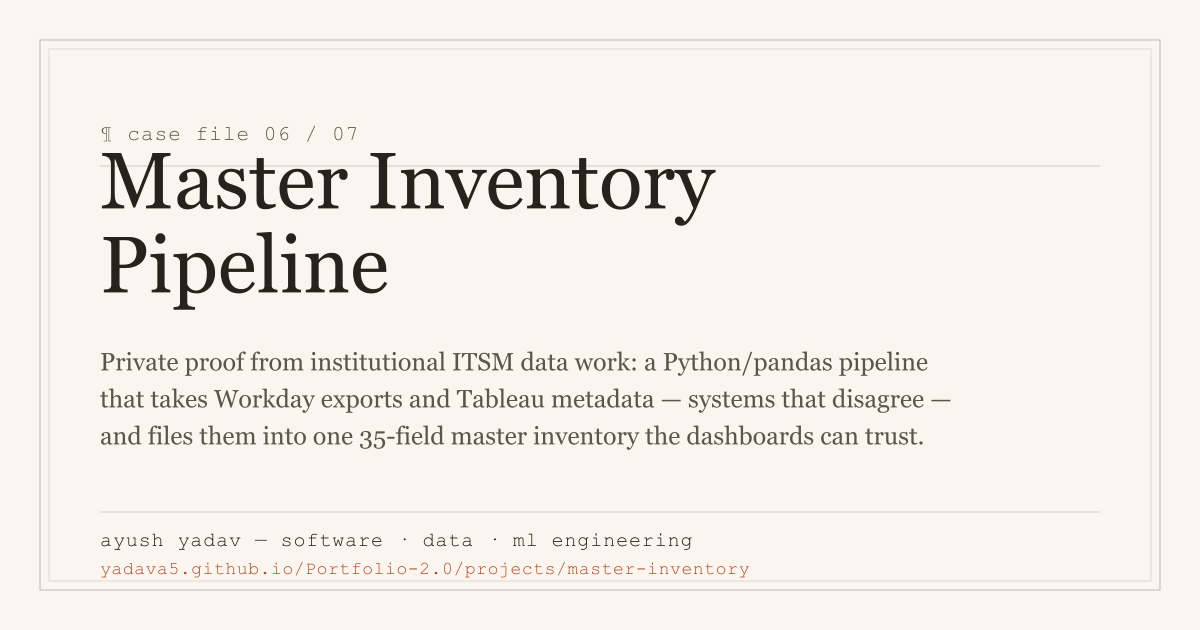
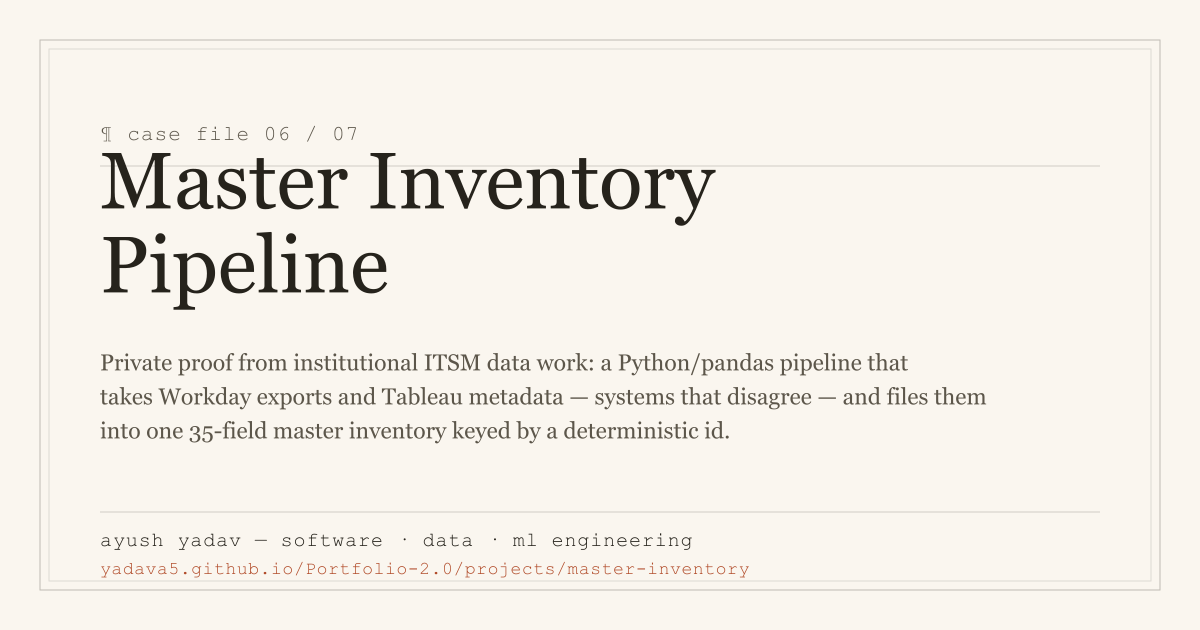
edit(data): eight more lines, and a bullet that said its neighbour's sentence
The rest of the case-route audit. Each one verified in the source before it was
touched, not taken from the report that flagged it.

POLICYBOT carried three lines written for a product page rather than an
engineering file. "Meet users where they already work: Slack" is a marketing
formula standing in for a constraint — now "Answer in Slack, where the questions
already get asked." Its one outcome row claimed an intention ("designed to cut
policy lookup friction while preserving citations and fallback behavior") while
the ledger two sections down held the concrete version; it now states what
actually happens, including the 4 declined topics, taken from
policybot-validation-ledger.json rather than from prose. And a tradeoff sold
"lowers adoption friction" — jargon for an unmeasured effect, on a file that
disowns adoption claims elsewhere, and the route's third use of "friction".

MASTER INVENTORY leaned on "trust" four times and never made it checkable. The
summary now names the mechanism instead — a deterministic id — which is what
the ledger's own schema row records. "1M+" was the only rounded figure on a
route that otherwise prints 3,731 / 6,743 / 10,453; spelled out.

TASKFLOW's "what I'm not claiming" list said the same thing three times: bullets
3, 4 and 5 each explained that RLS is written but not switched on. Bullet 5 held
one fact the others did not — that the 11 tests run in CI against an ephemeral
[…]

Changed region(s): [[0.0617, 0.5429, 0.8325, 0.7238]]

diff --git a/src/lib/data/projectCaseStudies.ts b/src/lib/data/projectCaseStudies.ts
@@ -1361,7 +1361,7 @@ export const projectCaseStudies: ProjectCaseStudy[] = [
       {
         date: "2026-05",
         kind: "erratum",
-        text: "An earlier draft carried the smaller count from the repo’s CI run title. The audited count in the current tree is 71 test functions; the receipt above links the tree so the number can be checked.",
+        text: "An earlier draft took its count from the repo’s CI run title rather than from the test tree; that draft is not in this repository’s history, so the figure it printed cannot be quoted back here. The audited count in the current tree is 71 test functions, and the receipt above links the tree so the number can be checked.",
       },
     ],
     artifacts: [
@@ -1723,9 +1723,8 @@ export const projectCaseStudies: ProjectCaseStudy[] = [
     notClaiming: [
       "Re-run 2026-07-31 against HEAD 932625e it is 1,168 passed and 11 skipped (635 frontend + 533 backend) — the tree grew from 87 to 105 test files over 249 commits, and nothing was retracted. 1,145 is my local vitest count from 2026-07 against the pinned commit — not a CI badge, and that commit’s own CI run failed. Main has been green since 2026-07-23, so the caveat is that this number predates the green rather than that the repo is broken.",
       "No production users or uptime are claimed; the deployment is a demo with a mock-login flow.",
-      "The DB-enforced RLS is not turned on in production. Receipt 05 is the standing: the policies are written, the app sets the GUC on every query, and 11 tests prove the pair binds against a real Postgres — but 0002 is hand-run, and the cutover is a final staged step nobody has taken. Isolation is the application’s discipline today.",
+      "The DB-enforced RLS is not turned on in production. Receipt 05 is the standing: the policies are written, the app sets the GUC on every query, and 11 tests prove the pair binds against an ephemeral Postgres in CI — the suite builds its own NOSUPERUSER NOBYPASSRLS role and applies the real migration, so that evidence is machine-checked rather than hand-run. But 0002 is hand-run, and the cutover is a final staged step nobody has taken. Isolation is the application’s discipline today.",
       "The repo ships the SQL that creates a NOSUPERUSER NOBYPASSRLS role for the app to connect as. It cannot show you which role the production DATABASE_URL actually uses — that is database state, not repository state, and no file here can settle it.",
-      "What the 11 isolation tests prove is that the policies work, not that they are switched on in production. They run in CI against an ephemeral Postgres — the suite builds its own NOSUPERUSER NOBYPASSRLS role and applies the real migration — so the evidence is machine-checked, not hand-run. What no test here can show is which role the deployed database actually connects as; that is database state, and receipt 05 is where the staged-off standing is written down.",
       "The hang in receipt 09 was timed once, by hand, against the deployed app, and that number lives in the fix commit’s message and nowhere else — no log, no test, and no timeout setting reproduces it. So this file describes the failure and not its seconds.",
     ],
     corrections: [
@@ -1800,7 +1799,7 @@ export const projectCaseStudies: ProjectCaseStudy[] = [
     repoPin: null,
     privateRepoName: "institutional — Miami University IT",
     summary:
-      "Private proof from institutional ITSM data work: a Python/pandas pipeline that takes Workday exports and Tableau metadata — systems that disagree — and files them into one 35-field master inventory the dashboards can trust.",
+      "Private proof from institutional ITSM data work: a Python/pandas pipeline that takes Workday exports and Tableau metadata — systems that disagree — and files them into one 35-field master inventory keyed by a deterministic id.",
     evidenceDisclosure: {
       label: "Private-safe evidence",
       detail:
@@ -1939,7 +1938,7 @@ export const projectCaseStudies: ProjectCaseStudy[] = [
       },
       {
         claim:
-          "1M+ operational records ran through the Python/SQL transforms behind OAS and Tableau reporting in this same role.",
+          "More than one million operational records ran through the Python/SQL transforms behind OAS and Tableau reporting in this same role.",
         method:
           "role scope, jun 2025 – may 2026 — institutional ITSM data integration",
         artifacts: [],
@@ -2037,7 +2036,7 @@ export const projectCaseStudies: ProjectCaseStudy[] = [
       "Keep institutional policy content governed and source-cited.",
       "Support DOCX, PDF, and Markdown policy sources.",
       "Validate quoted passages before presenting answers.",
-      "Meet users where they already work: Slack.",
+      "Answer in Slack, where the questions already get asked.",
     ],
     architecture: {
       summary:
@@ -2103,7 +2102,7 @@ export const projectCaseStudies: ProjectCaseStudy[] = [
         reason:
           "The target workflow already happens in team communication channels.",
         tradeoff:
-          "Slack integration adds event handling complexity but lowers adoption friction.",
+          "Slack integration adds event handling to maintain, and puts the answer in the thread where the question was asked.",
         status: "accepted",
       },
     ],
@@ -2163,7 +2162,7 @@ export const projectCaseStudies: ProjectCaseStudy[] = [
     outcomes: [
       {
         claim:
-          "The assistant is designed to cut policy lookup friction while preserving citations and fallback behavior.",
+          "Answers come back in Slack with the source cited, and topics the sources do not cover are declined rather than answered — 4 such fallbacks in the recorded sweep.",
         method: "design intent, described — no usage metric is claimed",
         artifacts: [],
         date: null,

diff --git a/src/components/case-study/ArtifactGallery.tsx b/src/components/case-study/ArtifactGallery.tsx
@@ -239,7 +239,8 @@ export function ArtifactGallery({ artifacts, figStart }: ArtifactGalleryProps) {
                       </span>
                       <span className="text-ink-secondary mt-1 block">
                         panels cropped at column width from the checked-in
-                        capture — titles quoted from the poster.
+                        capture — the titles are the poster&rsquo;s words, not
+                        this file&rsquo;s claims.
                       </span>
                       <span className="text-ink-secondary mt-1 block">
                         source: {artifact.source} ·{" "}
